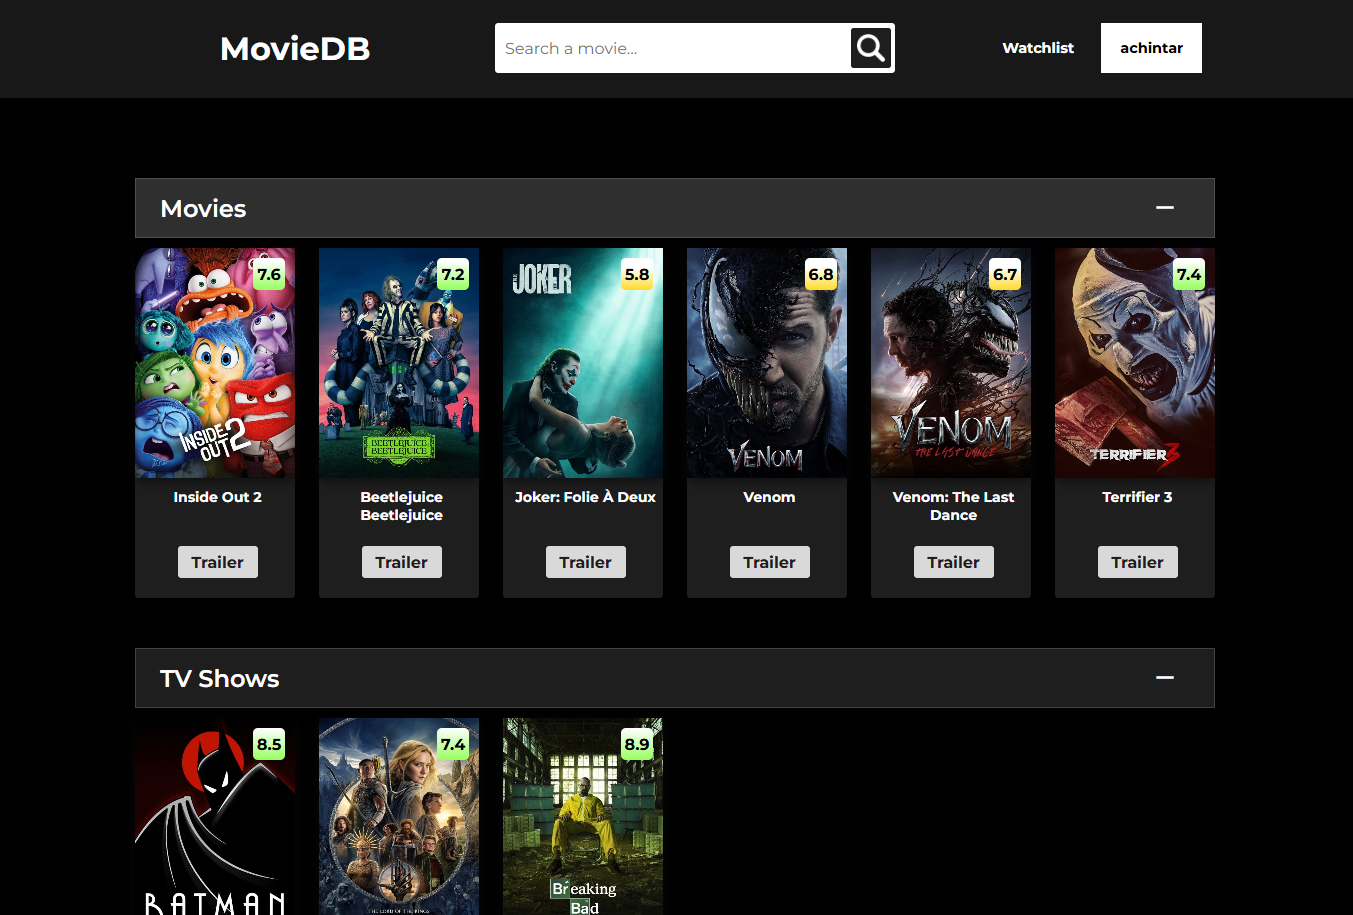
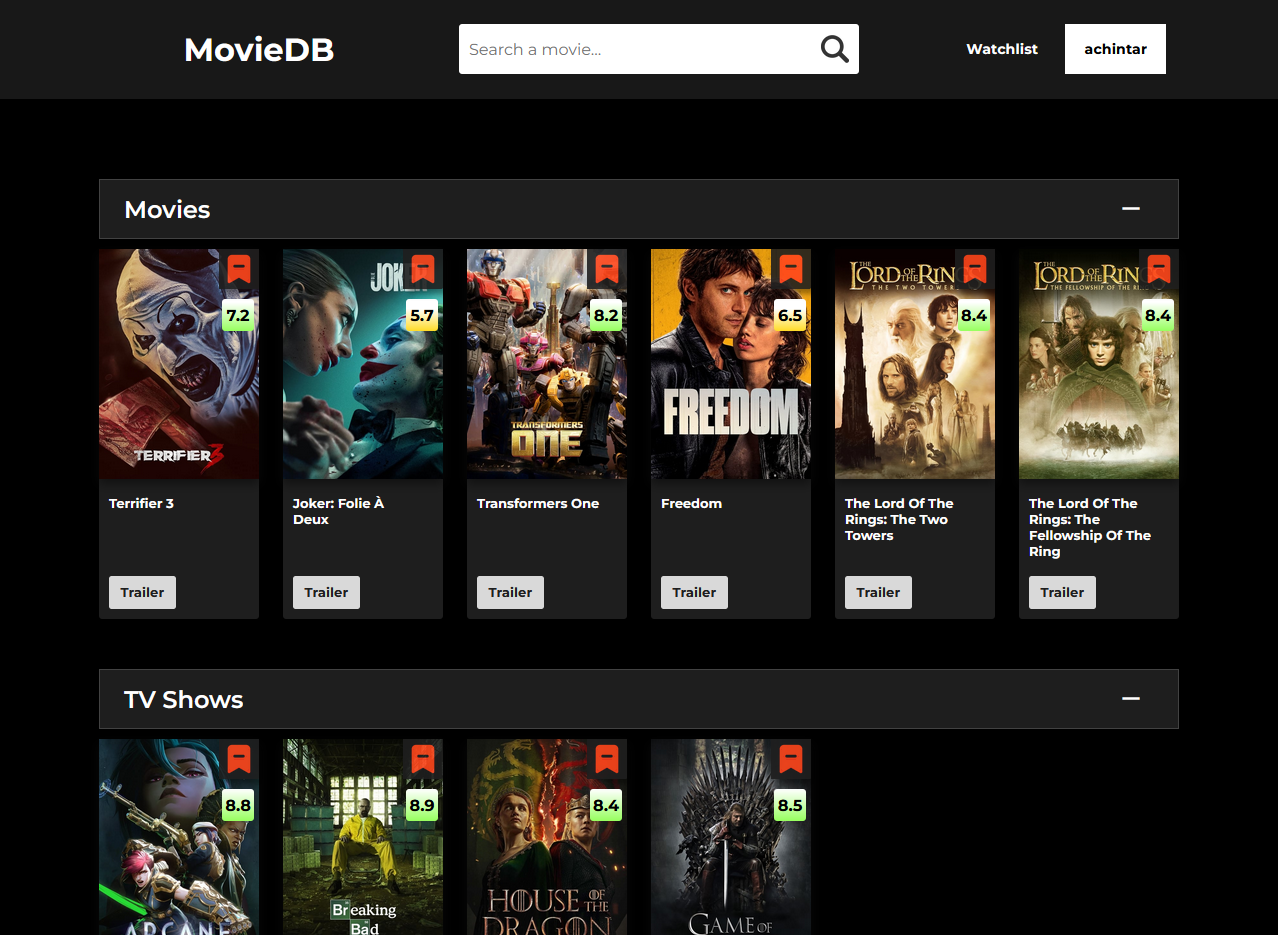
Readme update.

diff --git a/readme.md b/readme.md
@@ -8,6 +8,9 @@ Current features:
 - Account register/login.
 - Add to watchlist and watchlist view.
 
+## Home page.
+![alt element](https://github.com/achintar0/TMDB-API-Website/blob/master/_images/home_page.png?raw=true)
+
 ## Dynamic Search Bar and trending movies.
 ![alt element](https://github.com/achintar0/TMDB-API-Website/blob/master/_images/search-bar.png?raw=true)
 
